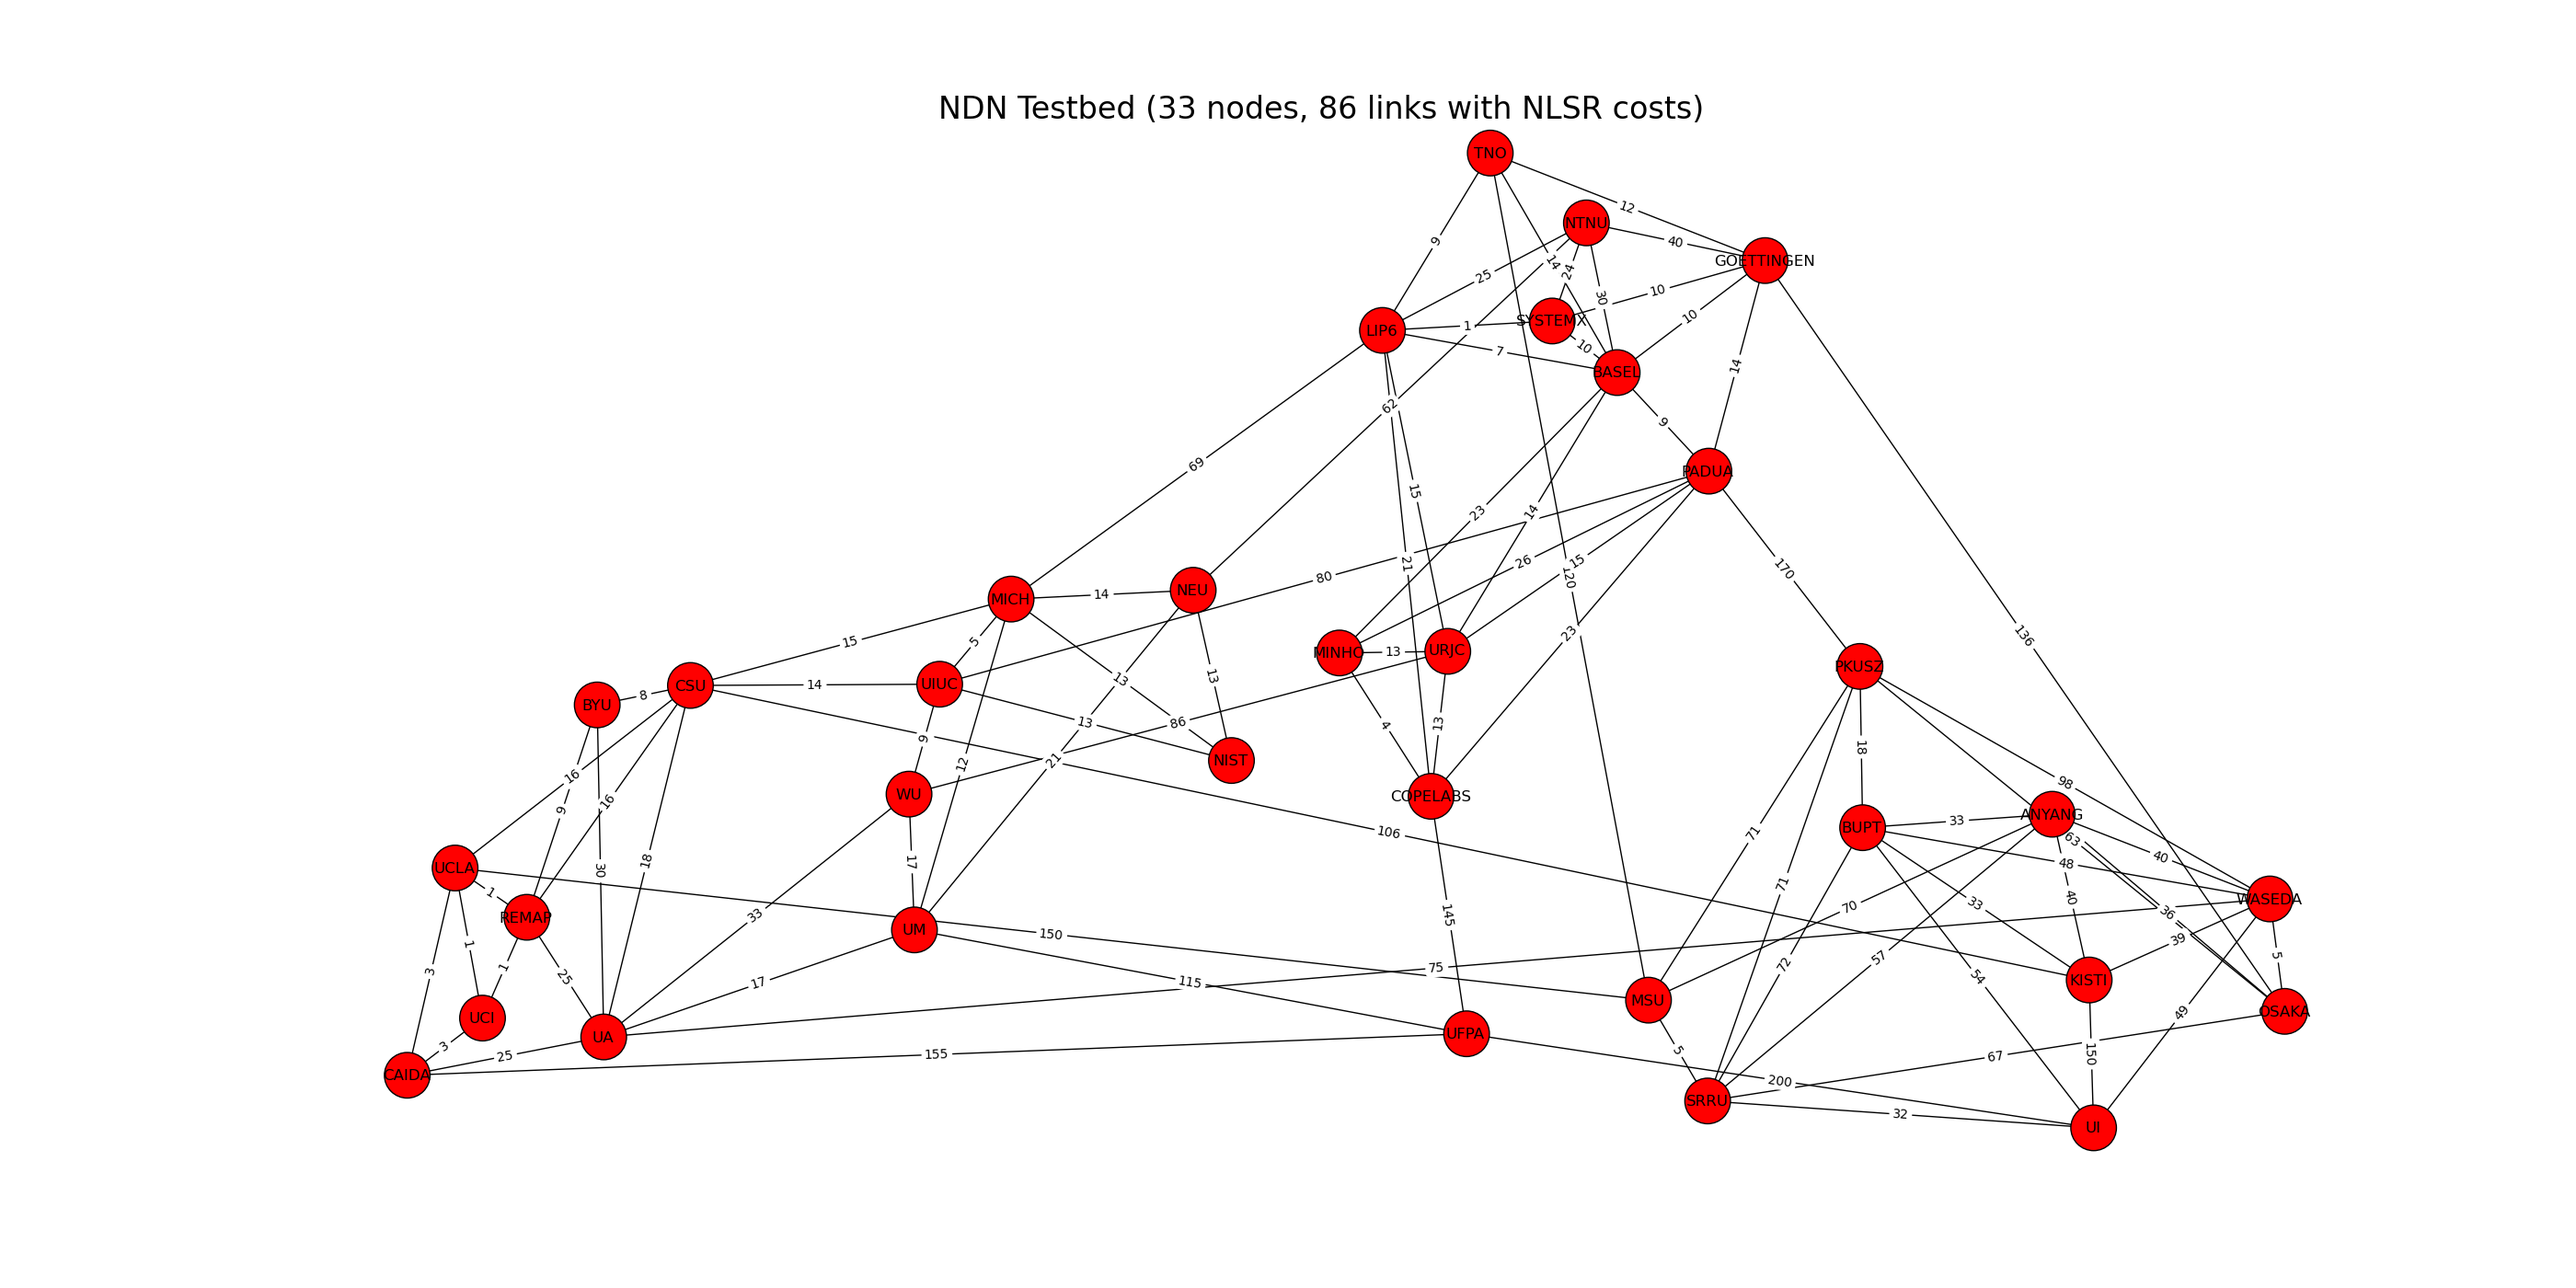
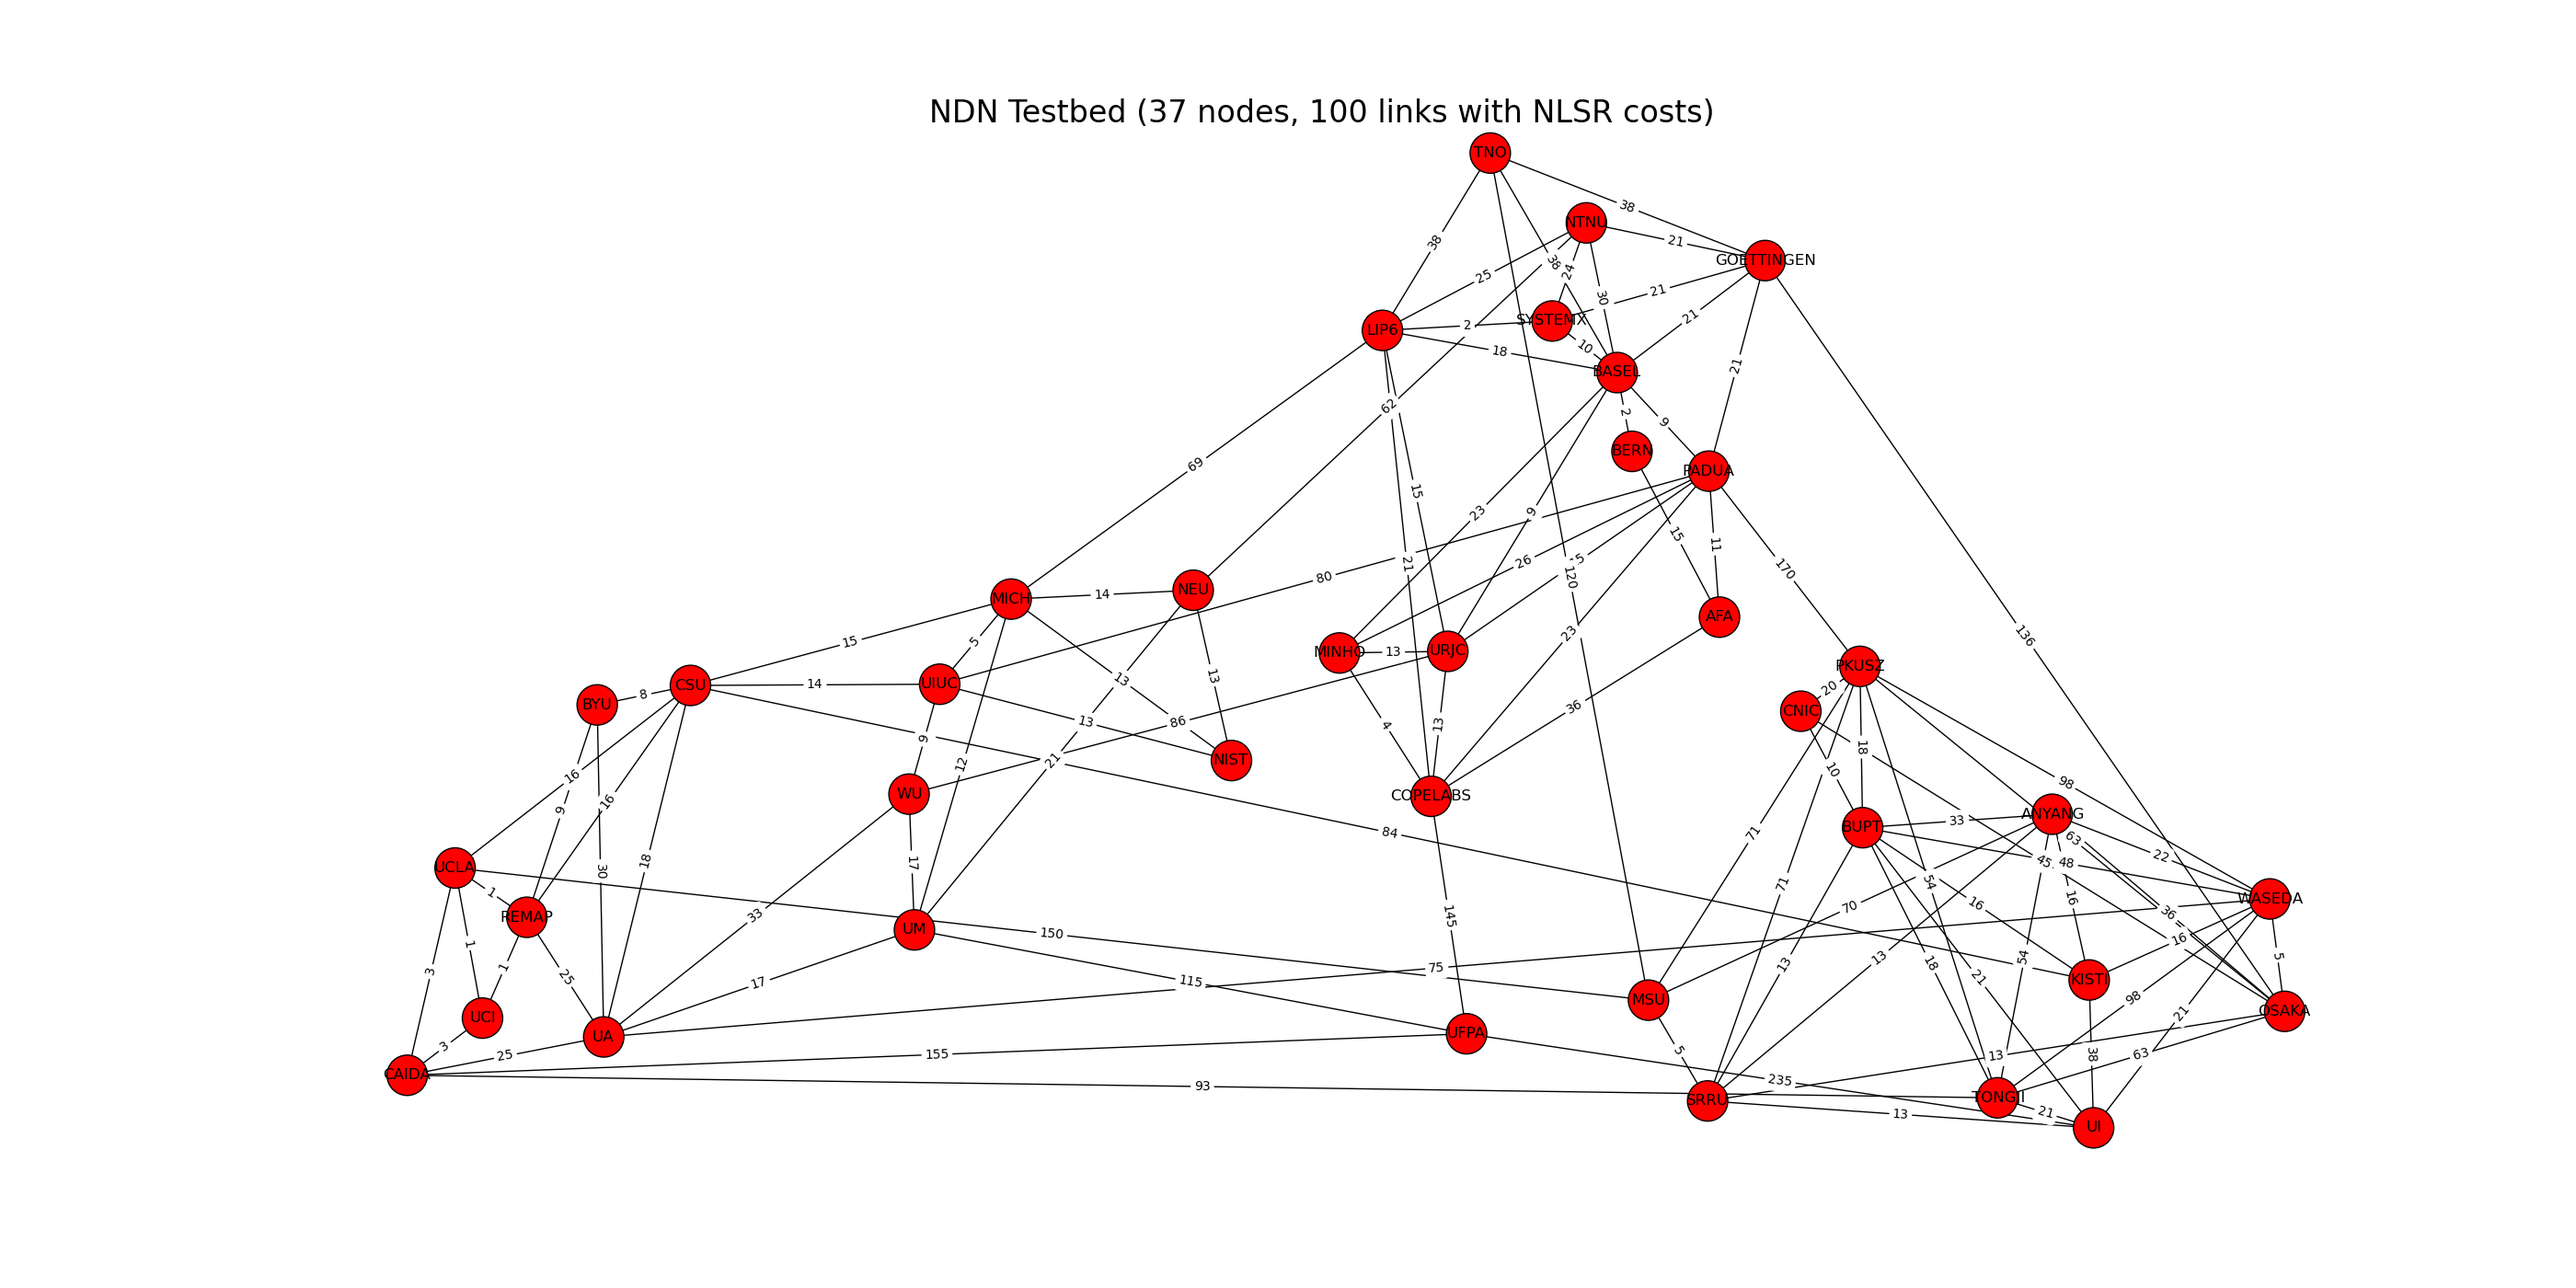
latest updates

diff --git a/ndn_prefix/NDN_nx.py b/ndn_prefix/NDN_nx.py
@@ -13,7 +13,7 @@ def process_nodes():
   shortNametWords = {}
   positionWords = {}
 
-  print "process_nodes():"
+  #print "process_nodes():"
   f = open('geocode.json','r')
 
   foundShortName = False
@@ -23,18 +23,18 @@ def process_nodes():
 
   #print "line: ", line
   while line != '' :
-    print "process_nodes(): top of while"
+    #print "process_nodes(): top of while"
     words = line.split()
-    print "words[0]: ", words[0]
-    print "process_nodes(): checking shortname"
+    #print "words[0]: ", words[0]
+    #print "process_nodes(): checking shortname"
     if words[0] == "\"shortname\":":
       #words = line.split(':')
       #print "found line with shortname"
       shortNameWords = words[1].split(',')
       foundShortName = True
       shortName = shortNameWords[0][1:len(shortNameWords[0])-1]
-      print "shortName: ", shortName
-    print "process_nodes(): checking position"
+      #print "shortName: ", shortName
+    #print "process_nodes(): checking position"
     if words[0] == "\"position\":":
       indexLB = line.find("[")
       indexRB = line.find("]")
@@ -44,17 +44,17 @@ def process_nodes():
       #print "line[COMMA+1,RB]: ", line[indexCOMMA+1:indexRB]
       x = float(line[indexLB+1:indexCOMMA])
       y = float(line[indexCOMMA+1:indexRB])
-      print "x,y", x, ", ", y
+      #print "x,y", x, ", ", y
       foundPosition = True
-    print "process_nodes(): checking founds"
+    #print "process_nodes(): checking founds"
     if foundShortName == True and foundPosition == True :
       nodes_with_positions[shortName] = (x,y)
-      print "processed node: ", shortName, "with position: x: ", x, "y: ", y
+      #print "processed node: ", shortName, "with position: x: ", x, "y: ", y
       foundShortName = False
       foundPosition = False
     line = f.readline()
-    print "line: >", line, "<"
-  print "end process_nodes():"
+    #print "line: >", line, "<"
+  #print "end process_nodes():"
 
 def process_edges():
   startWords = {}
@@ -73,12 +73,12 @@ def process_edges():
     words = line.split()
     if words[0] == "\"start\":":
       startWords = words[1].split(',')
-      print "found Start", startWords[0]
+      #print "found Start", startWords[0]
       foundStart = True
       startName = startWords[0][1:len(startWords[0])-1]
     if words[0] == "\"end\":":
       endWords = words[1].split(',')
-      print "found End", endWords[0]
+      #print "found End", endWords[0]
       foundEnd = True
       endName = endWords[0][1:len(endWords[0])-1]
     if words[0] == "\"nlsr_weight\":":
@@ -102,9 +102,9 @@ def NDN_graph():
 
 
     process_edges()
-    print "back from  process_edges():"
+    #print "back from  process_edges():"
     process_nodes()
-    print "back from  process_nodes():"
+    #print "back from  process_nodes():"
 
     G=nx.Graph()
     G.position={}
@@ -175,23 +175,28 @@ def NDN_graph():
           x = x - 3
         if node == "PADUA":
           x = x + 2
+        if node == "BERN":
+          y = y - 1
         if node == "TNO":
           y = y + 0.4
           x = x - 5.0
         if node == "PKUSZ":
           y = y + 18
           x = x - 0
+        if node == "CNIC":
+          y = y + 0
+          x = x - 2
 
         #if node == "PKU":
         #  x = x -3
         G.add_node(node)
         G.position[node] = (x,y)
         #print "Adding node: >", node, "< with position: ", x, ",", y
-        print "Adding node: >", node, "< with position: ", G.position[node]
+        #print "Adding node: >", node, "< with position: ", G.position[node]
 
     for (n1,n2),l in edges_with_labels.iteritems():
         G.add_edge(n1,n2)
-        print "Adding edge: >", n1, "< >", n2, "< ", l
+        #print "Adding edge: >", n1, "< >", n2, "< ", l
         G.edge_labels[(n1,n2)] = l
 
     return G            
@@ -201,25 +206,25 @@ if __name__ == '__main__':
 
     G=NDN_graph()
 
-    for n in G.nodes():
-       print "node n:", n
+    #for n in G.nodes():
+    #   print "node n:", n
 
-    print("digraph has %d nodes with %d edges"\
-          %(nx.number_of_nodes(G),nx.number_of_edges(G)))
+    #print("digraph has %d nodes with %d edges"\
+    #      %(nx.number_of_nodes(G),nx.number_of_edges(G)))
     graphLabel = "NDN Testbed ("
     graphLabel += str(nx.number_of_nodes(G))
     graphLabel += " nodes, "
     graphLabel += str(nx.number_of_edges(G))
     graphLabel += " links with NLSR costs) "
-    print graphLabel
+    #print graphLabel
     try:
-        print "about to plt.figure"
+        #print "about to plt.figure"
         plt.figure(figsize=(28,14))
         plt.title(graphLabel, fontsize=24)
-        print "about to nx.draw"
+        #print "about to nx.draw"
         #nx.draw(G,G.position, with_labels=True)
         nx.draw(G,G.position, node_size=1000, with_labels=True)
-        print "about to nx.draw_networkx_edge_labels"
+        #print "about to nx.draw_networkx_edge_labels"
         nx.draw_networkx_edge_labels(G,G.position, edge_labels=G.edge_labels)
 
         # scale the axes 

diff --git a/ndn_prefix/tbs_ndnx.py b/ndn_prefix/tbs_ndnx.py
@@ -478,6 +478,11 @@ def gen_prefix_status_description():
 <font size="3" face="arial">Notes on current (April 11, 2017) status: BUPT is recovering from a fire and an A/C outage. <br></font>
 <font size="3" face="arial">Notes on current (May 15, 2017) status: TONGJI is coming back into the NDN Testbed. Currently being installed and configured. <br></font>
 <font size="3" face="arial">Notes on current (May 22, 2017) status: A new node is being installed at the Computer Network Information Center (CNIC) of the Chinese Academy of Science. . <br></font>
+<font size="3" face="arial">Notes on current (May 25, 2017) status: This status page has been moved to a new site: http://ndndemo.arl.wustl.edu/ndn.html . More tweaks on the way.<br></font>
+<font size="3" face="arial">Notes on current (June 13, 2017) status: Updates to NFD and NLSR today. Status will bounce up and down a bit.<br></font>
+<font size="3" face="arial">Notes on current (June 14, 2017) status: Updates to NFD and NLSR yesterday have not gone well. We have a bug in NLSR that causes it to crash repeatedly in our Testbed conditions. We are working on a fix.<br></font>
+<font size="3" face="arial">Notes on current (June 15, 2017) status: We are still working on a fix.<br></font>
+<font size="3" face="arial">Notes on current (June 15, 2017) status: Fixed. The NDN Testbed should be back to normal.<br></font>
 
 <br>
 
@@ -508,6 +513,12 @@ def fes_html_gen(all_prefix):
 	#out = str(out) + " (CST)"
 	#generate description and beginning of the table
 	html_code = gen_html_start()
+	html_code += "<br />"
+	html_code += "<br />"
+        html_code += "<body><font size=\"4\" face=\"arial\">Note the new site location http://ndndemo.arl.wustl.edu/ndn.html</font>\n"
+        html_code += "\n"
+	html_code += "<br />"
+	html_code += "<br />"
         html_code += "<body><font size=\"4\" face=\"arial\">Other NDN status pages:</font>\n"
         html_code += "\n"
         html_code += "<DT> <A HREF=\"http://ndnmap.arl.wustl.edu/\">NDN Bandwidth Map </A>"
@@ -790,10 +801,10 @@ def fentry_status_gen():
 	#every valid prefix(prefixes that represent a node in the topology e.g. ndn:/ndn/some_website.edu)
 	all_fentry_prefix = []
 	all_nodes_prefix_lists = []
-	my_output_file = "/home/research/jdd/Library/HTML/Public/ndnstatus/ndn_prefix/tbs_ndnx.html"
+	my_output_file = "/home/jdd/WU-ARL/ndnstatus/ndn_prefix/tbs_ndnx.html"
 
 	#get and store all xml from ccndstatus webages
-	get_all_xml(config.node_url, "/home/research/jdd/Library/HTML/Public/ndnstatus/ndn_prefix/xmlfiles/", config.xml_list, 10);
+	get_all_xml(config.node_url, "/home/jdd/WU-ARL/ndnstatus/ndn_prefix/xmlfiles/", config.xml_list, 10);
         ## handle UCLA differently
 	#subprocess.call(["cp", "/home/research/jdd/Library/HTML/Public/ndnstatus/ndn_prefix/xmlfiles/UCLA", "/home/research/jdd/Library/HTML/Public/ndnstatus/ndn_prefix/xmlfiles/UCLA.html"])
 	#subprocess.call(["/home/research/jdd/Library/HTML/Public/ndnstatus/ndn_prefix/processUCLA.sh", "/home/research/jdd/Library/HTML/Public/ndnstatus/ndn_prefix/xmlfiles/UCLA.html", "/home/research/jdd/Library/HTML/Public/ndnstatus/ndn_prefix/xmlfiles/UCLA"])
@@ -817,7 +828,7 @@ def fentry_status_gen():
 
 def main():
 	#print(datetime.now())
-	setup("/home/research/jdd/Library/HTML/Public/ndnstatus/ndn_prefix/config_file_ndnx")
+	setup("/home/jdd/WU-ARL/ndnstatus/ndn_prefix/config_file_ndnx")
 	fentry_status_gen()
 	#print(datetime.now())
 if __name__=="__main__":main()
